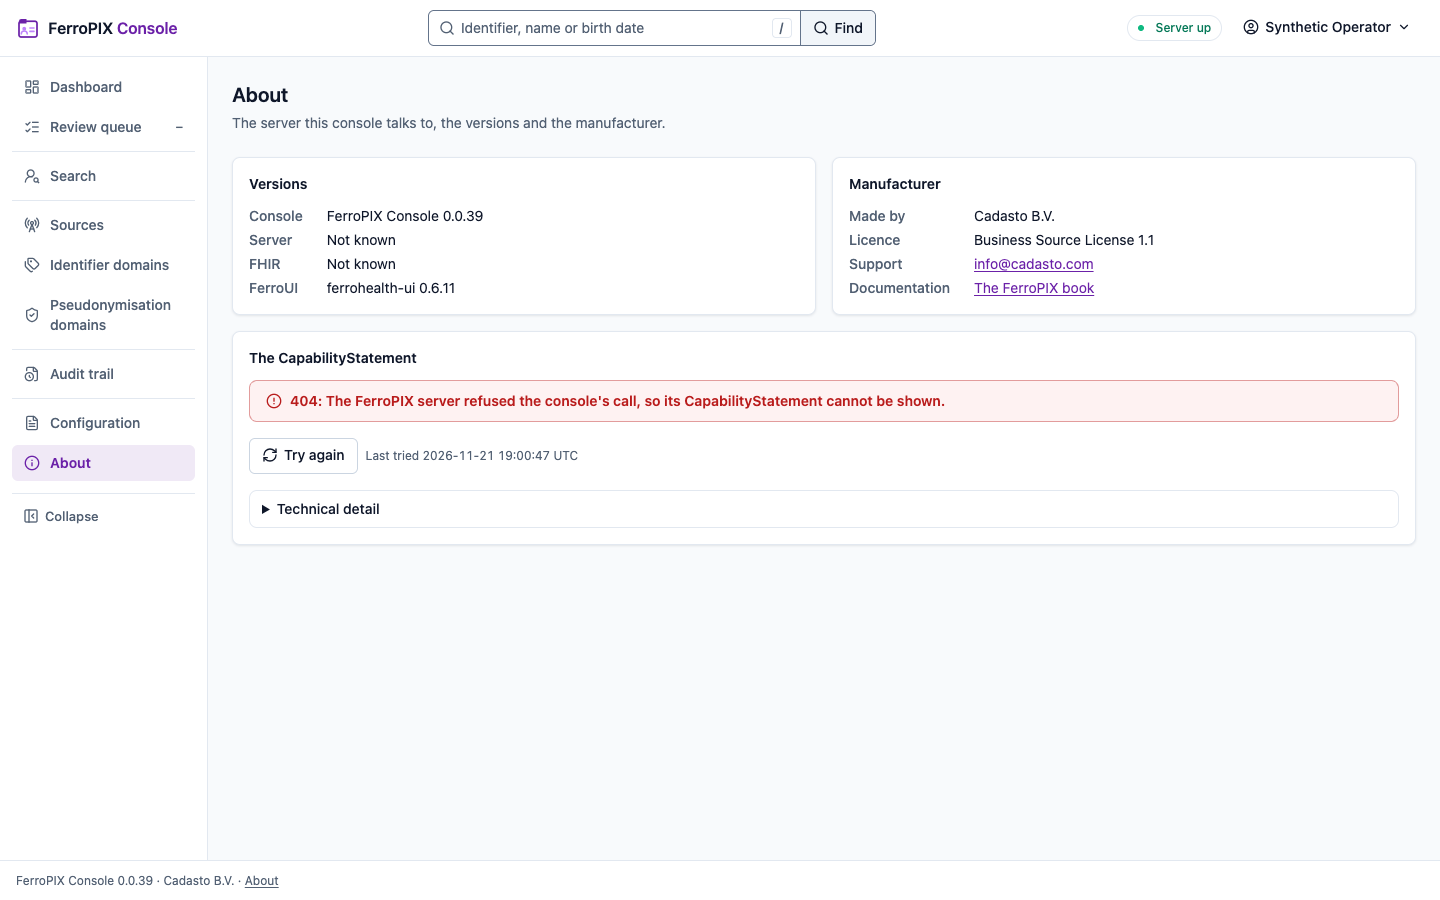
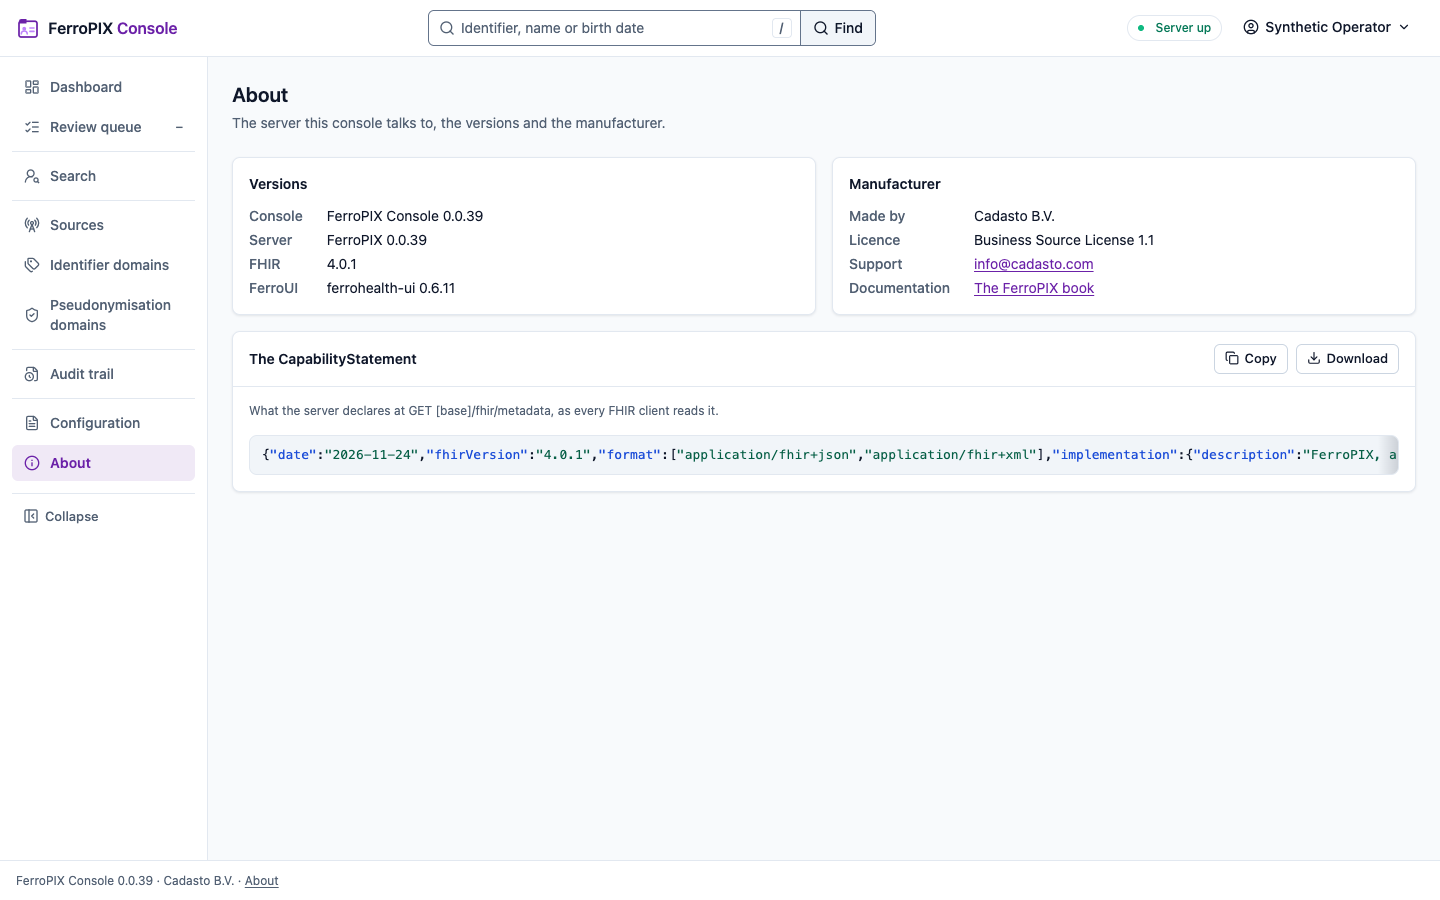
fix(console): draw the CapabilityStatement in the About journey and screenshot (#679)
The journeys' stand-in for the server answered GET /fhir/metadata with 404,
so the book's About screenshot drew the refusal. The stand-in now serves the
statement the server declares, held to the server's by its suite, and a
journey fails when About draws a refusal there.

diff --git a/tools/ferropix-testkit/tests/it/journeys/stack.rs b/tools/ferropix-testkit/tests/it/journeys/stack.rs
@@ -10,8 +10,10 @@
 //! [`Server::Refusing`] it refuses every other route with `404`, so every
 //! screen draws its refused state; with [`Server::Filled`] it answers the
 //! operator API routes the screens read with the synthetic documents under
-//! `fixtures/operator/`, so every screen draws its filled state. No
-//! specification governs the stack: our own design, after FerroBRIDGE's.
+//! `fixtures/operator/`, and `GET /fhir/metadata` with the server's own
+//! `CapabilityStatement` at the workspace version, so every screen draws its
+//! filled state. No specification governs the stack: our own design, after
+//! FerroBRIDGE's.
 
 use std::collections::BTreeMap;
 
@@ -98,6 +100,20 @@ pub(crate) fn document(name: &str) -> String {
     std::fs::read_to_string(&file).unwrap_or_else(|error| panic!("reading {file}: {error}"))
 }
 
+/// The `CapabilityStatement` the server declares, from
+/// `fixtures/operator/capability-statement.json` (held to the server's by
+/// its suite), naming the workspace version as the server does.
+#[expect(
+    clippy::disallowed_types,
+    reason = "the test seam: the statement is read as a JSON value to set its version"
+)]
+fn capability_statement() -> String {
+    let mut statement: serde_json::Value = serde_json::from_str(&document("capability-statement"))
+        .expect("the capability statement is JSON");
+    statement["software"]["version"] = serde_json::Value::from(env!("CARGO_PKG_VERSION"));
+    statement.to_string()
+}
+
 /// What the stand-in for the FerroPIX server answers.
 #[derive(Debug, Clone, Copy, PartialEq, Eq)]
 pub(crate) enum Server {
@@ -165,6 +181,15 @@ impl Stack {
                     .mount(&server)
                     .await;
             }
+            Mock::given(method("GET"))
+                .and(path("/fhir/metadata"))
+                .respond_with(
+                    ResponseTemplate::new(200)
+                        .insert_header("content-type", "application/fhir+json")
+                        .set_body_string(capability_statement()),
+                )
+                .mount(&server)
+                .await;
         }
         let listener = TcpListener::bind("127.0.0.1:0")
             .await

diff --git a/tools/ferropix-testkit/tests/it/journeys/about.rs b/tools/ferropix-testkit/tests/it/journeys/about.rs
@@ -1,0 +1,54 @@
+// SPDX-FileCopyrightText: Cadasto B.V.
+// SPDX-License-Identifier: BUSL-1.1
+
+//! About draws the server's `CapabilityStatement` (HL7 FHIR R4, the REST
+//! interaction `capabilities`) with the server and FHIR versions it
+//! declares, and no refusal, when the server answers `GET /fhir/metadata`.
+//! No specification governs the console: our own design.
+
+use thirtyfour::prelude::*;
+
+use crate::journeys::browser::with_journey;
+use crate::journeys::journeys_enabled;
+use crate::journeys::sign_in::sign_in;
+use crate::journeys::stack::{Server, Stack};
+
+/// What the page's main content says: one line per finding, empty when
+/// About draws the statement, its two versions and no `Not known`.
+const DRAWN: &str = r"
+const main = document.querySelector('main');
+const text = main.innerText;
+const findings = [];
+if (main.querySelector('a[href=\'/about/capability-statement.json\']') === null) {
+  findings.push('no Download of the CapabilityStatement');
+}
+for (const wanted of arguments[0].split('\n')) {
+  if (!text.includes(wanted)) { findings.push('the page does not say ' + wanted); }
+}
+if (text.includes('Not known')) { findings.push('the page says Not known'); }
+if (main.querySelector('[role=alert]') !== null) { findings.push('the page draws an alert'); }
+return findings.join('\n');
+";
+
+#[tokio::test(flavor = "multi_thread", worker_threads = 2)]
+async fn about_draws_the_capability_statement_the_server_declares() {
+    if !journeys_enabled() {
+        return;
+    }
+    let stack = Stack::start_with(Server::Filled).await;
+    with_journey(async |journey| {
+        sign_in(journey, &stack).await;
+        journey.open(&stack.url("/about")).await;
+        journey.element(By::Css("h1"), "the page's heading").await;
+        let wanted = format!(
+            "FerroPIX {}\n4.0.1\n\"resourceType\"",
+            env!("CARGO_PKG_VERSION")
+        );
+        let findings = journey
+            .evaluate_with(DRAWN, wanted)
+            .await
+            .expect("the page reads its content");
+        assert!(findings.is_empty(), "About: {findings}");
+    })
+    .await;
+}

diff --git a/app/ferropix-server/tests/it/capability.rs b/app/ferropix-server/tests/it/capability.rs
@@ -530,3 +530,34 @@ async fn the_statement_renders_in_json_and_xml_and_refuses_any_other_format_406(
         assert_eq!("error", outcome["issue"][0]["severity"], "{uri}");
     }
 }
+
+/// The console journeys' copy of the statement, which their stand-in for
+/// the server answers `GET /fhir/metadata` with.
+const JOURNEY_STATEMENT: &str = concat!(
+    env!("CARGO_MANIFEST_DIR"),
+    "/../../tools/ferropix-testkit/fixtures/operator/capability-statement.json"
+);
+
+/// The issuer the journeys' copy names in place of the test issuer.
+const JOURNEY_ISSUER: &str = "http://localhost:8180";
+
+#[tokio::test]
+async fn the_console_journeys_serve_the_statement_the_server_declares() {
+    let issuer = Issuer::start().await;
+    let secrets = Secrets::new();
+    let (app, _, _spool) = application(settings(&issuer, &secrets)).await;
+    let (status, _, text) = get(&app, "/fhir/metadata", None).await;
+    assert_eq!(StatusCode::OK, status);
+    let journeys: Value = serde_json::from_str(
+        &std::fs::read_to_string(JOURNEY_STATEMENT).expect("the journeys' statement reads"),
+    )
+    .expect("the journeys' statement is JSON");
+    let mut served: Value = serde_json::from_str(&text.replace(&issuer.uri(), JOURNEY_ISSUER))
+        .expect("the served statement is JSON");
+    served["date"] = journeys["date"].clone();
+    served["software"]["version"] = journeys["software"]["version"].clone();
+    assert_eq!(
+        journeys, served,
+        "regenerate tools/ferropix-testkit/fixtures/operator/capability-statement.json from the served statement"
+    );
+}

diff --git a/tools/ferropix-testkit/tests/it/journeys/mod.rs b/tools/ferropix-testkit/tests/it/journeys/mod.rs
@@ -23,6 +23,7 @@
 //! specification governs the journeys: our own design, after FerroBRIDGE's,
 //! FerroFED's and FerroTERM's.
 
+mod about;
 mod accessibility;
 mod browser;
 mod chromedriver;

diff --git a/changelog.d/679-about-capability-statement.fixed.md b/changelog.d/679-about-capability-statement.fixed.md
@@ -1,0 +1,5 @@
+- The book's About screenshot of the operator console draws the server's
+  `CapabilityStatement` with the server and FHIR versions it declares. The
+  journeys' stand-in for the server now answers `GET /fhir/metadata` with
+  the statement the server serves, and a journey fails when About draws a
+  refusal there.
